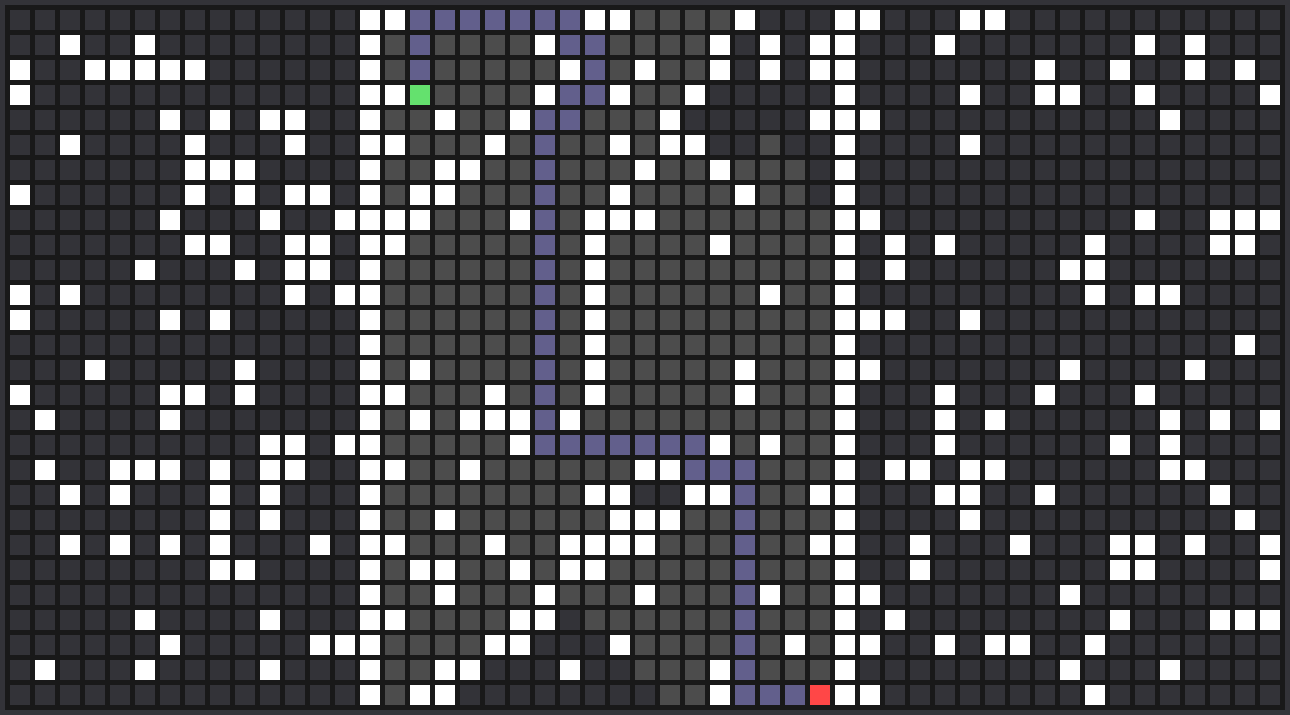
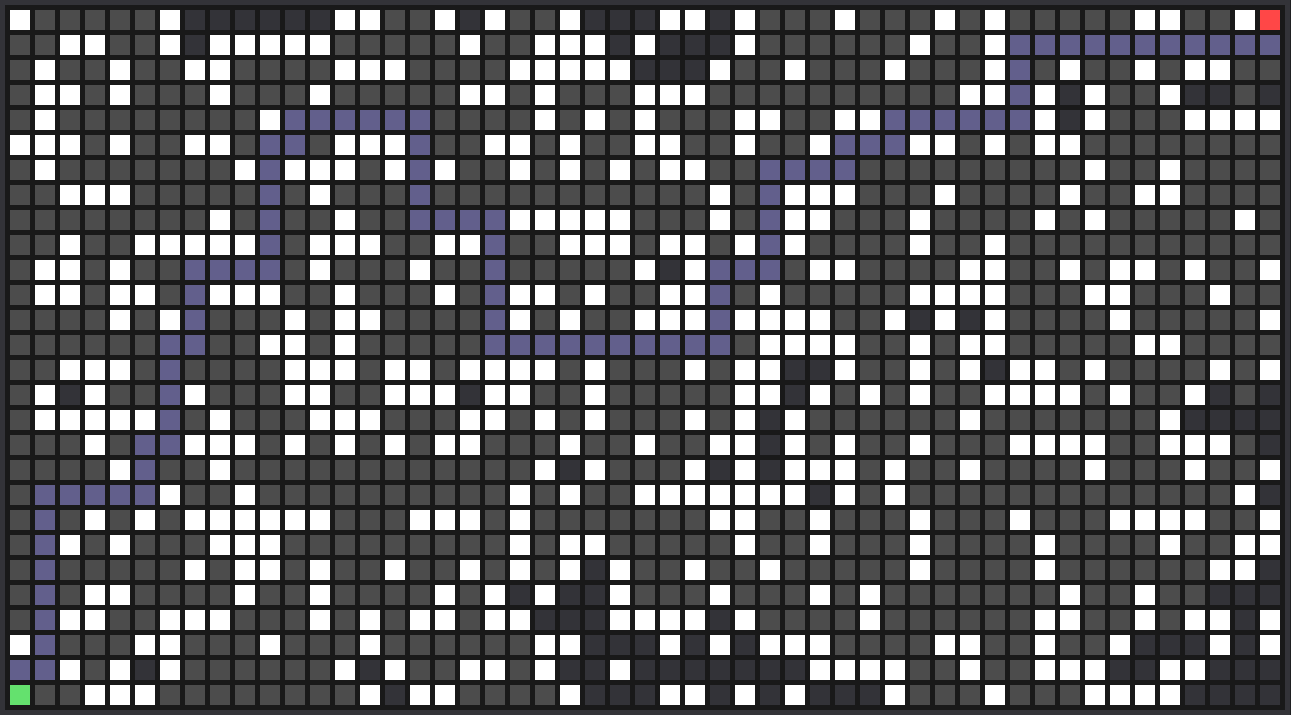
Made random obstacles more frequent and updated demoImage.

diff --git a/src/board/Board.hpp b/src/board/Board.hpp
@@ -11,7 +11,7 @@
 #define GRID_HEIGHT 28
 #define GRID_PIECE_SIZE 20.0f
 
-#define RAND_PROB 0.8f
+#define RAND_PROB 0.65f
 #define DELTA_TIME 0.001f
 
 enum class BoardState { selectingStart, selectingFinish, running, idle };
